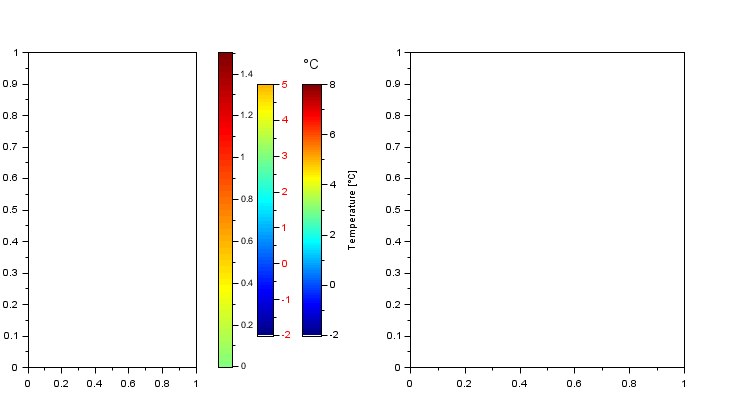
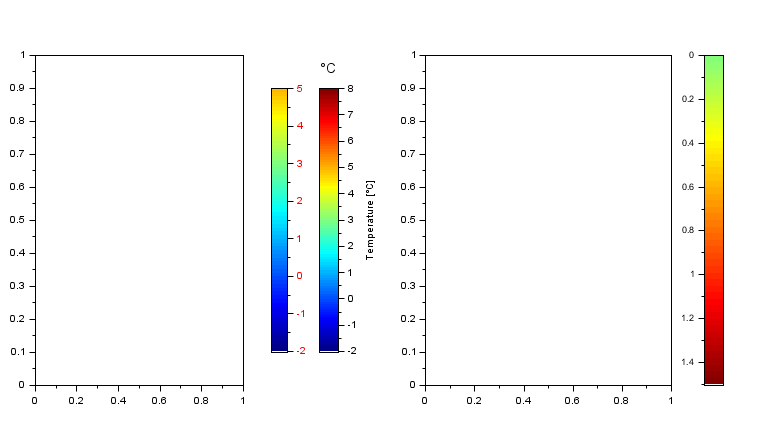
* Bugs 10553 16232 fixed: colorbar(): gce(), $ in colminmax
http://bugzilla.scilab.org/10553
  http://bugzilla.scilab.org/16232

  Page updated/fixed/improved: http://bugzilla.scilab.org/attachment.cgi?id=5040

Conflicts:
	scilab/modules/graphics/macros/colorbar.sci
	scilab/modules/helptools/etc/images_md5.txt

Changed region(s): [[0.0, 0.1238, 0.9644, 0.9286], [0.3616, 0.1857, 0.3918, 0.2476]]

diff --git a/scilab/CHANGES.md b/scilab/CHANGES.md
@@ -205,6 +205,7 @@ Bug Fixes
 * [#9673](http://bugzilla.scilab.org/show_bug.cgi?id=9673): Priority of colon `:` operator was too low
 * [#10078](http://bugzilla.scilab.org/show_bug.cgi?id=10078): `isinf()` was not reliable for polynomials.
 * [#10353](http://bugzilla.scilab.org/show_bug.cgi?id=10353): Documentation: The referential for the uicontrol.position property was not provided. Moreover, gca().axes_bounds refered to fig.figure_size instead of fig.axes_size.
+* [#10553](http://bugzilla.scilab.org/show_bug.cgi?id=10553): After calling `colorbar()`, retrieving the handle of the new color bar was not trivial.
 * [#10723](http://bugzilla.scilab.org/show_bug.cgi?id=10723): `subplot`'s action was unclearly described in its help page. Page improved.
 * [#11852](http://bugzilla.scilab.org/show_bug.cgi?id=11852): File browser didn't update after file creation or remove.
 * [#11363](http://bugzilla.scilab.org/show_bug.cgi?id=11363): show_window() did not raise the current graphics window.
@@ -312,6 +313,7 @@ Bug Fixes
 * [#16215](http://bugzilla.scilab.org/show_bug.cgi?id=16215): `mfile2sci` badly converted the colon `:` into `mtlb(:)`
 * [#16227](http://bugzilla.scilab.org/show_bug.cgi?id=16227): `WSCI` was not defined as environment variable and could not be used as `%WSCI%` in commands sent with `host()` or `unix_*()`.
 * [#16230](http://bugzilla.scilab.org/show_bug.cgi?id=16230): `MSWin>scilab --help` missed displaying some options like `-args..`, `-noatomsautoload`, etc.
+* [#16232](http://bugzilla.scilab.org/show_bug.cgi?id=16232): `colorbar()` did not support `$` in `colminmax`, standing for the number of colors in the current color map.
 * [#16234](http://bugzilla.scilab.org/show_bug.cgi?id=16234): Airy functions were not available.
 * [#16242](http://bugzilla.scilab.org/show_bug.cgi?id=16242): `loadmatfile()` could not read Octave native text data files.
 * [#16245](http://bugzilla.scilab.org/show_bug.cgi?id=16245): `gsort` could not sort booleans.
